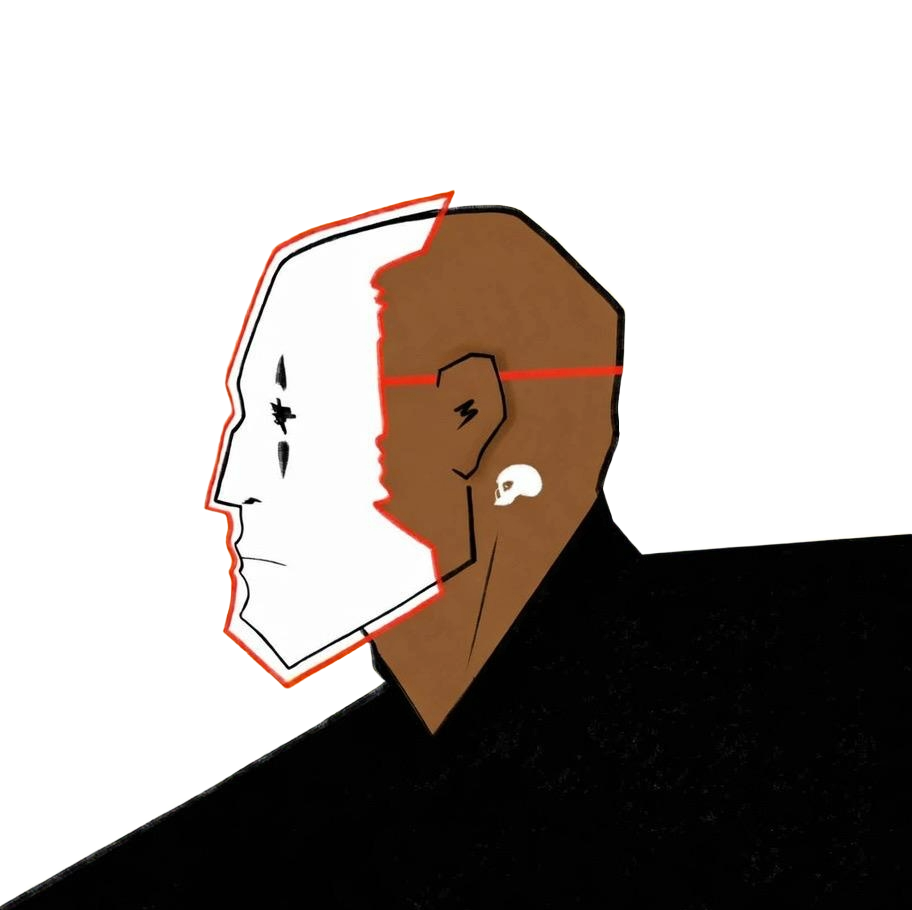
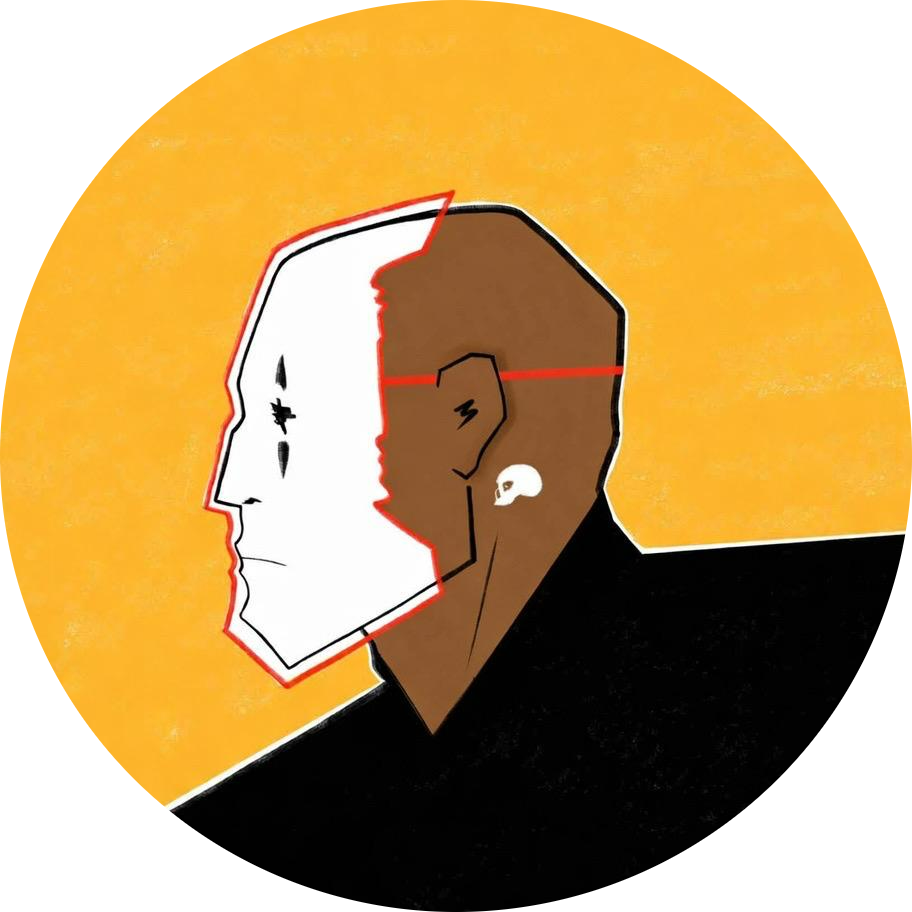
fix: above the fold image position

diff --git a/src/components/intro/intro.css b/src/components/intro/intro.css
@@ -25,14 +25,14 @@
     display: flex;
     flex-direction: column;
     justify-content: center;
-    gap: 16px;
+    gap: 20px;
 }
 
 .i-socials {
     width: 100%;
     display: flex;
-    justify-content: center;
-    align-items: center;
+    justify-content: flex-start;
+    align-items: left;
     gap: 20px;
     margin-bottom: 20px;
 }
@@ -102,11 +102,13 @@
 }
 
 .i-img {
-    width: 100%;
-    height: 100%;
+    width: 70%;
+    height: 70%;
     object-fit: contain;
     position: absolute;
-    right: -17.5%;
+    top: 50%;
+    left: 50%;
+    transform: translate(-50%, -50%);
 }
 
 .i-bg {
